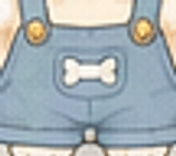
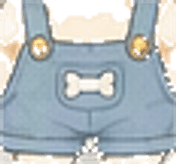
衣柜素材v3：切图改颜色分割只留衣服不留毛——围巾按像素采样重定位(领巾三角在y184-214，此前裁到胸口毛)，block-tan连通填充保留深描边/白格并剔除孤立噪点；连帽衫/背带裤按衣色板分割(绿/蓝+浅色变体)，裙子退矩形裁窗(弓形领结+裙身)，雨衣/睡衣黄紫与毛色不可分保持矩形；叠穿定位元数据修正单位混淆(contentW→def.w)并按展示尺寸精确出图；帽子/小包散件不变

diff --git a/miniapp/src/domain/wardrobeModel.ts b/miniapp/src/domain/wardrobeModel.ts
@@ -44,9 +44,9 @@ export function isBundledSuit(key: string): boolean {
  * 数值与 miniapp/tools/make-wardrobe-suits.mjs 的 cx/ty/w 标定一致，改素材必须同步。
  */
 export const OUTFIT_LAYER_STYLE: Partial<Record<SuitKey, { left: string; top: string; width: string }>> = {
-  hat: { left: '22.79%', top: '3.76%', width: '54.36%' },
-  scarf: { left: '17.38%', top: '47.83%', width: '65.14%' },
-  bag: { left: '18.35%', top: '73.14%', width: '32.11%' }
+  hat: { left: '28.67%', top: '7.43%', width: '42.66%' },
+  scarf: { left: '15.85%', top: '46.73%', width: '57.80%' },
+  bag: { left: '22.02%', top: '75.43%', width: '24.77%' }
 }
 
 export function isOverlaySuit(key: string): boolean {
